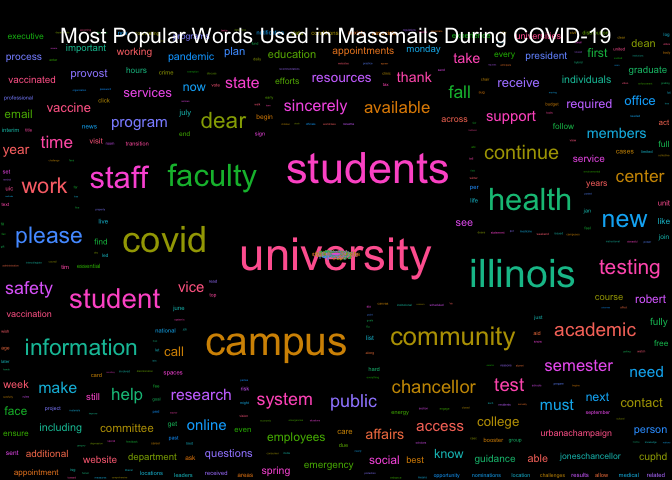
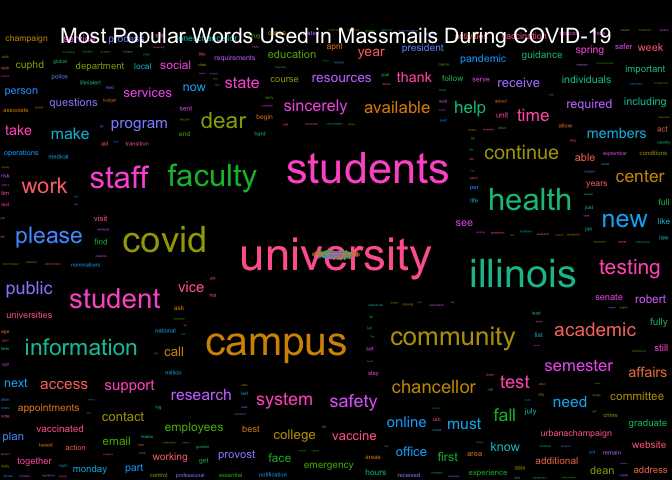
Re-build README.Rmd and Graphs

diff --git a/README.md b/README.md
@@ -17,7 +17,7 @@ The archive may be viewed here:
 
 <https://massmail.illinois.edu/massmailArchive>
 
-Data has **818** observations and **7** variables:
+Data has **816** observations and **7** variables:
 
 - `datetime`: Date and time when the email was sent in the form of
   `YYYY-MM-DD HMS` with either CDT or CST.
@@ -211,15 +211,15 @@ head(most_popular_words, 10) %>%
 | word       | freq |
 |:-----------|-----:|
 | university | 1884 |
-| students   | 1611 |
+| students   | 1613 |
 | campus     | 1449 |
-| illinois   | 1255 |
+| illinois   | 1260 |
 | covid      | 1070 |
-| faculty    |  960 |
+| faculty    |  962 |
 | community  |  900 |
 | health     |  900 |
-| student    |  821 |
-| staff      |  795 |
+| student    |  822 |
+| staff      |  797 |
 
 #### Wordcloud
 
